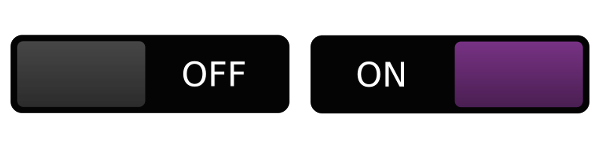
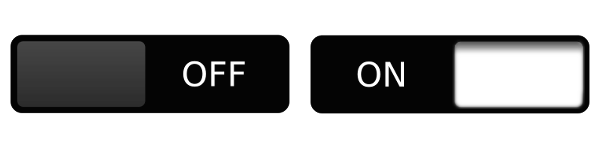
Add support for grouped switches in effect settings dialog

Changed region(s): [[0.75, 0.2667, 0.99, 0.7467]]

diff --git a/html/css/pedals.css b/html/css/pedals.css
@@ -689,10 +689,19 @@ body > .mod-settings.mod-window-visible {
     float:left;
     height:160px;
     margin-bottom:2px;
-    margin-right:2px;
     position:relative;
     text-align:center;
     width:160px;
+}
+
+.mod-pedal-settings .mod-switch-background {
+    height: 23px;
+    left: 81px;
+    position: absolute;
+    overflow: hidden;
+    top: 77px;
+    width: 44px;
+    background-color: var(--no-group-color);
 }
 
 .mod-pedal-settings .mod-switch > span.mod-switch-title {
@@ -700,9 +709,9 @@ body > .mod-settings.mod-window-visible {
     display:block;
     font-size:11px;
     font-weight:bold;
-    height:11px;
+    height:23px;
     line-height:1;
-    margin:9px 0;
+    padding:6px 0px 3px 0px;
     position:relative;
     overflow:hidden;
     text-transform:uppercase;
@@ -946,12 +955,12 @@ body > .mod-settings.mod-window-visible {
 }
 
 .mod-pedal-settings .mod-group.mod-group-end > .mod-group-item-title {
-    border-top-right-radius: 1px;
-    border-bottom-right-radius: 1px;
+    /* border-top-right-radius: 1px;
+    border-bottom-right-radius: 1px; */
 }
 
 .mod-pedal-settings .mod-group.mod-group-end {
-     margin-right:2px;
+     margin-right:3px;
 }
 
 .mod-pedal-settings .mod-group-item-title  {

diff --git a/html/resources/settings.html b/html/resources/settings.html
@@ -128,8 +128,14 @@
                     </div>
                     {{/toggled}}
                     {{#toggled}}
-                    <div class="mod-switch" title="{{comment}}">
-                        <span class="mod-switch-title">{{shortName}}</span>
+                    <div class="mod-switch{{#group}} mod-group{{#groupStart}} mod-group-start{{/groupStart}} mod-group-{{groupIndex}}{{#groupEnd}} mod-group-end{{/groupEnd}}{{/group}}" title="{{comment}}">
+                        <span class="mod-switch-title{{#group}} mod-group-item-title{{/group}}">{{shortName}}</span>
+                        {{#group}}
+                        <div class="mod-switch-background" style="background-color: var(--group-{{groupIndex}}-color);"></div>
+                        {{/group}}
+                        {{^group}}
+                        <div class="mod-switch-background"></div>
+                        {{/group}}
                         <div class="mod-switch-image" mod-role="input-control-port" mod-port-symbol="{{symbol}}" mod-widget="film"></div>
                         <div class="mod-address" mod-role="input-control-address" mod-port-symbol="{{symbol}}"></div>
                     </div>